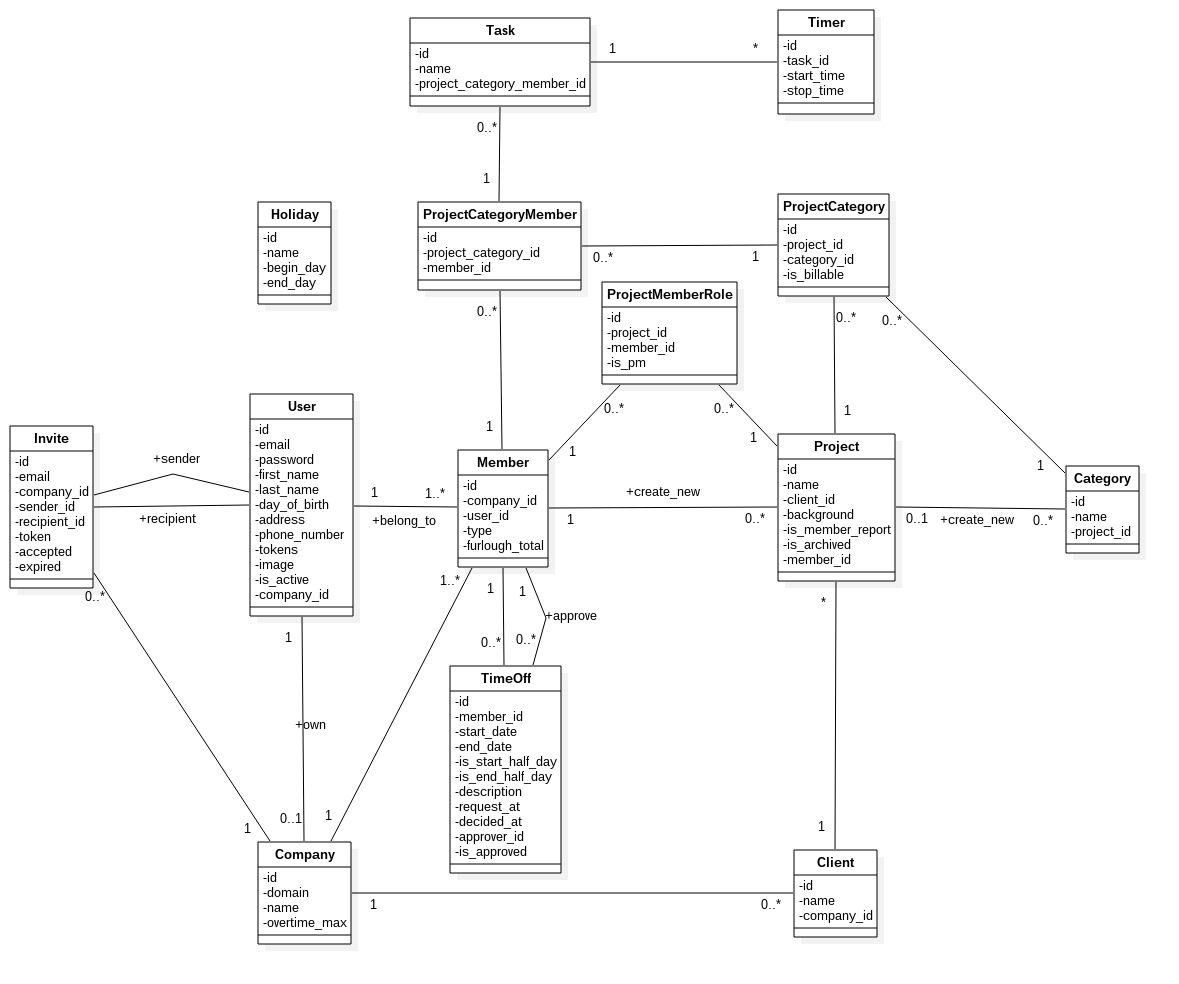
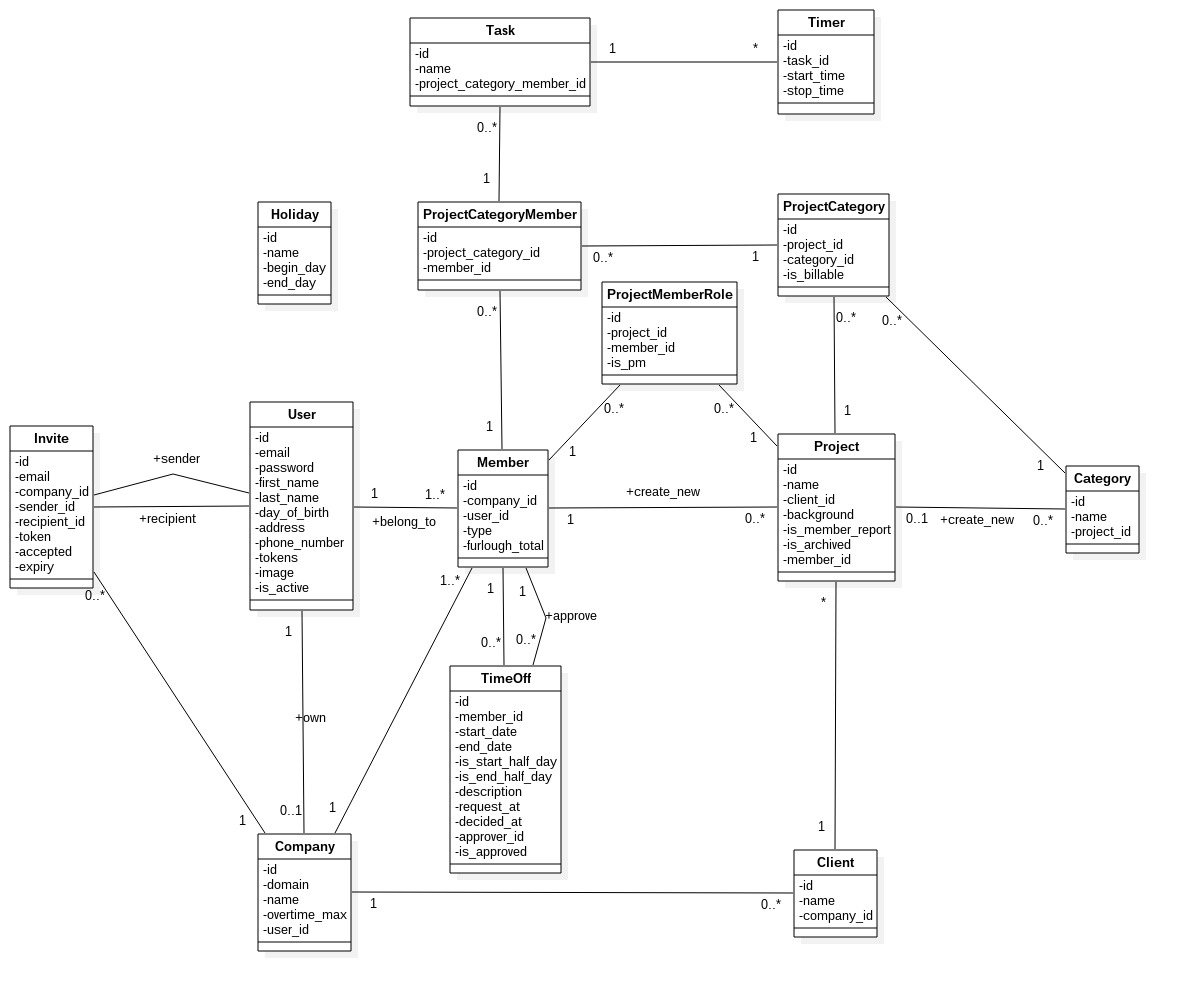
Remove default from and add project ref to Category

diff --git a/db/schema.rb b/db/schema.rb
@@ -10,16 +10,17 @@
 #
 # It's strongly recommended that you check this file into your version control system.
 
-ActiveRecord::Schema.define(version: 20170220104733) do
+ActiveRecord::Schema.define(version: 20170220111145) do
 
   # These are extensions that must be enabled in order to support this database
   enable_extension "plpgsql"
 
   create_table "categories", force: :cascade do |t|
     t.string   "name"
-    t.boolean  "default"
     t.datetime "created_at", null: false
     t.datetime "updated_at", null: false
+    t.integer  "project_id"
+    t.index ["project_id"], name: "index_categories_on_project_id", using: :btree
   end
 
   create_table "clients", force: :cascade do |t|
@@ -158,6 +159,7 @@ ActiveRecord::Schema.define(version: 20170220104733) do
     t.index ["uid", "provider"], name: "index_users_on_uid_and_provider", unique: true, using: :btree
   end
 
+  add_foreign_key "categories", "projects"
   add_foreign_key "clients", "companies"
   add_foreign_key "companies", "users"
   add_foreign_key "invites", "companies"

diff --git a/db/migrate/20170220111145_rename_default_to_project_ref_in_projects.rb b/db/migrate/20170220111145_rename_default_to_project_ref_in_projects.rb
@@ -1,0 +1,6 @@
+class RenameDefaultToProjectRefInProjects < ActiveRecord::Migration[5.0]
+    def change
+        remove_column :categories, :default
+        add_reference :categories, :project, foreign_key: true
+    end
+end
